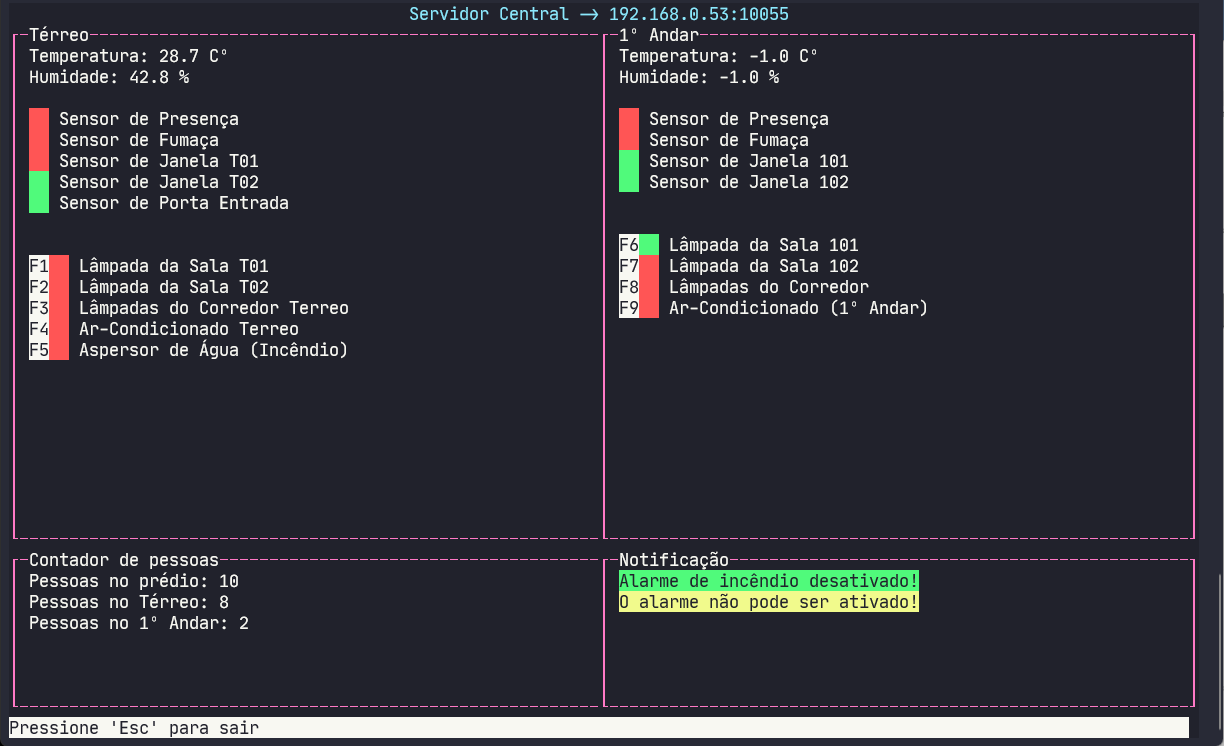
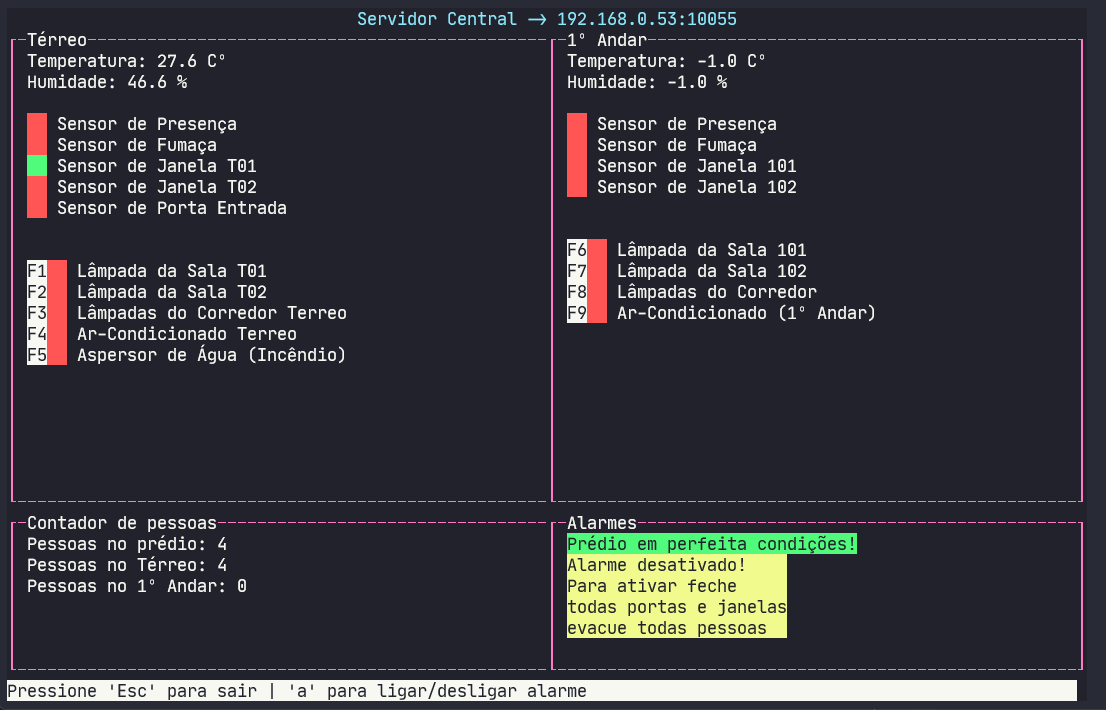
Implementado log

Changed region(s): [[0.0, 0.0, 1.0, 1.0], [0.0, 0.3408, 0.3074, 0.5268], [0.0, 0.7127, 0.2459, 0.8676]]

diff --git a/central/app.py b/central/app.py
@@ -2,6 +2,7 @@
 
 import sys,os,signal
 import time
+from datetime import datetime
 from threading import Thread
 
 import curses
@@ -19,12 +20,10 @@ firstKey = curses.KEY_F1
 keyboardPress = -1
 
 alarmeAtivado = False
-alarmeNotificacao = 'Alarme desativado!'
 alarmeAcionado = False
 
 alarmeIncendio = False
 andares = []
-
 
 inputsValidos = ['presenca', 'fumaca', 'janela', 'contagem', 'porta', 'dth22']
 outputsValidos = ['lampada', 'ar-condicionado', 'aspersor']
@@ -32,7 +31,7 @@ outputsValidos = ['lampada', 'ar-condicionado', 'aspersor']
 
 def pintarInterface(stdscr):
     global alarmeIncendio, andares, inputsValidos, outputsValidos, keyboardPress
-    global alarmeAtivado, alarmeAcionado, alarmeNotificacao
+    global alarmeAtivado, alarmeAcionado
 
     stdscr.clear()
     stdscr.refresh()
@@ -57,7 +56,7 @@ def pintarInterface(stdscr):
         title_x = int((width // 2) - (len(title) // 2) - len(title) % 2)
         stdscr.addstr(0, title_x, title, curses.color_pair(1))
 
-        footer = "Pressione 'Esc' para sair"
+        footer = "Pressione 'Esc' para sair | 'a' para ligar/desligar alarme"
         stdscr.attron(curses.color_pair(3))
         stdscr.addstr(height-1, 0, footer)
         stdscr.addstr(height-1, len(footer), " " * (width - len(footer) - 1))
@@ -102,26 +101,29 @@ def pintarInterface(stdscr):
         stdscr.addstr(1, margin_x+mid_x, titleCol2)
 
         stdscr.addstr(rectangle_h+1, margin_x, "Contador de pessoas")
-        stdscr.addstr(rectangle_h+1, margin_x+mid_x, "Notificação")
+        stdscr.addstr(rectangle_h+1, margin_x+mid_x, "Alarmes")
 
         if(alarmeIncendio):
             stdscr.addstr(rectangle_h+2, margin_x+mid_x, f"Alarme de incêndio ativado!", curses.color_pair(6))
         else:
-            stdscr.addstr(rectangle_h+2, margin_x+mid_x, f"Alarme de incêndio desativado!", curses.color_pair(5))
+            stdscr.addstr(rectangle_h+2, margin_x+mid_x, f"Prédio em perfeita condições!", curses.color_pair(5))
 
         if(alarmeAtivado):
             if(alarmeAcionado):
-                stdscr.addstr(rectangle_h+3, margin_x+mid_x, f"{alarmeNotificacao}", curses.color_pair(6))
+                stdscr.addstr(rectangle_h+3, margin_x+mid_x, f"Alarme acionado!", curses.color_pair(6))
             else:
-                stdscr.addstr(rectangle_h+3, margin_x+mid_x, f"{alarmeNotificacao}", curses.color_pair(5))
+                stdscr.addstr(rectangle_h+3, margin_x+mid_x, f"Alarme ativado!", curses.color_pair(5))
         else:
-            stdscr.addstr(rectangle_h+3, margin_x+mid_x, f"{alarmeNotificacao}", curses.color_pair(7))
+            stdscr.addstr(rectangle_h+3, margin_x+mid_x, f"Alarme desativado!    ", curses.color_pair(7))
+            stdscr.addstr(rectangle_h+4, margin_x+mid_x, f"Para ativar feche     ", curses.color_pair(7))
+            stdscr.addstr(rectangle_h+5, margin_x+mid_x, f"todas portas e janelas", curses.color_pair(7))
+            stdscr.addstr(rectangle_h+6, margin_x+mid_x, f"evacue todas pessoas  ", curses.color_pair(7))
 
         stdscr.refresh()
         keyboardPress = stdscr.getch()
 
         time.sleep(0.09)
-    
+
 
 def pintarIOInterface(stdscr, lineStart: int, margin_x: int, ios: list):
     for tmp_in in ios:
@@ -165,7 +167,7 @@ def lerSocket(con):
 
 
 def enviarSocket(con):
-    global keyboardPress, andares, alarmeIncendio, alarmeAtivado
+    global keyboardPress, andares, alarmeIncendio, alarmeAtivado, alarmeAcionado
 
     gpio = -1
     value = -1
@@ -173,13 +175,17 @@ def enviarSocket(con):
         if(alarmeIncendio):
             ativarAspersor(con)
 
+        time.sleep(0.09)
         if(keyboardPress == -1):
-            time.sleep(0.09)
             continue
         elif(keyboardPress == curses.ascii.ESC):
             break
         elif(keyboardPress == ord('a')):
-            ativarAlarme()
+            if(not alarmeAtivado):
+                ativarAlarme()
+            else:
+                alarmeAtivado = False
+                alarmeAcionado = False
 
         for tmp in andares:
             if(keyboardPress == -1): break
@@ -187,6 +193,11 @@ def enviarSocket(con):
                 if(tmp_io.getKey() == keyboardPress):
                     gpio = tmp_io.getGpio()
                     value = not tmp_io.getValue()
+                    if(value):
+                        log = 'Ativado'
+                    else:    
+                        log = 'Desativado'
+                    escreverLog(f"{log} {tmp_io.getTag()}")
                     tmp_io.setValue(value)
                     keyboardPress = -1
                     break  
@@ -212,9 +223,10 @@ def criarIO(json_object, andar):
                 if(json_object['type'] == 'contagem'):
                     andares[i].setContagem(msgIo)
                 elif(json_object['type'] == 'fumaca'):
-                    andares[i].setFumaca(msgIo)
-                    alarmeIncendio = json_object['value']
                     andares[i].addInput(msgIo)
+                    if(json_object['value'] and not alarmeIncendio):
+                        escreverLog("Acionado alarme de incêndio")
+                    alarmeIncendio = json_object['value']
                 else:
                     andares[i].addInput(msgIo)
 
@@ -245,6 +257,12 @@ def atualizarInput(json_object, andar):
                     for j, in_tmp in enumerate(andares[i].getInputs()):
                         if(in_tmp.getGpio() == json_object['gpio']):
                             andares[i].getInputs()[j].setValue(json_object['value'])
+                if(not alarmeIncendio):
+                    for tmp_andar in andares:
+                        for tmp_andar_in in tmp_andar.getInputs():
+                            if(tmp_andar_in.getType() == 'fumaca'):
+                                if(tmp_andar_in.getValue()):
+                                    alarmeIncendio = True
 
 
 
@@ -274,36 +292,38 @@ def ativarAspersor(con):
 
 
 def ativarAlarme():
-    global andares, alarmeAtivado, alarmeNotificacao, alarmeAcionado
+    global andares, alarmeAtivado, alarmeAcionado
     alarmeAtivado = not alarmeAtivado
     if(alarmeAtivado):
         for tmp in andares:
             for tmp_in in tmp.getInputs():
                 if(tmp_in.getValue()):
                     alarmeAtivado = False
-                    alarmeNotificacao = 'O alarme não pode ser ativado!'
                     break
-        if(alarmeAtivado):
-            alarmeNotificacao = 'Alarme ativado!'
-            alarmeThread = Thread(target=rotinaAlarme)
-            alarmeThread.start()
+    if(alarmeAtivado):
+        alarmeThread = Thread(target=rotinaAlarme)
+        alarmeThread.start()
     else:
-        time.sleep(1.1)
         alarmeAcionado = False
-        alarmeNotificacao = "O alarme foi desativado!"
 
 
 def rotinaAlarme():
-    global andares, alarmeAtivado, alarmeNotificacao, alarmeAcionado
-    while alarmeAtivado:
-        time.sleep(1)
+    global andares, alarmeAtivado, alarmeAcionado
+    while alarmeAtivado and not alarmeAcionado:
         for tmp in andares:
             for tmp_in in tmp.getInputs():
                 if(tmp_in.getValue()):
                     alarmeAcionado = True
-                    alarmeNotificacao = "Alarme acionado!"
+                    escreverLog("Acionado alarme")
                     break
+        if not alarmeAtivado: break
+        time.sleep(0.5)
 
+
+def escreverLog(text: str):
+    log = open('log.csv', 'a')
+    log.write(f"{datetime.now()}, {text}\n")
+    log.close()
 
 
 def sigint_handler(signal, frame):
@@ -320,7 +340,6 @@ if __name__ == "__main__":
         os._exit(os.EX_OK)
 
     socketThread = Thread(target=initSocket, args=(str(sys.argv[1]),int(sys.argv[2]),))
-    # socketThread.isDaemon=True
     socketThread.start()
 
     interfaceThread = Thread(target= curses.wrapper, args=(pintarInterface,))

diff --git a/central/andar.py b/central/andar.py
@@ -9,7 +9,6 @@ class Andar:
         self.temperatura = 0
         self.humidade = 0
         self.contagem = InOut(None, None, 0, 0)
-        self.fumaca = InOut(None, None, 0, 0)
 
     def addInput(self, input: InOut):
         self.inputs.append(input)
@@ -25,9 +24,6 @@ class Andar:
 
     def setContagem(self, contagem):
         self.contagem = contagem
-
-    def setFumaca(self, fumaca):
-        self.fumaca = fumaca
 
     def getNome(self):
         return self.nome
@@ -47,6 +43,4 @@ class Andar:
     def getContagem(self):
         return self.contagem
 
-    def getFumaca(self):
-        return self.fumaca
 

diff --git a/README.md b/README.md
@@ -36,12 +36,13 @@ Após um servidor distribuído se conectar, o usuário poderá:
 * ligar/desligar os dispositivos teclando a tecla correspondente a esquerda do dispositivo.
 * ligar/desligar o alarme de segurança teclando a tecla **'a'**.
 * Para sair pressione **'Esc'**.
+* Um linha de log e gerado no arquivo **[log.csv](/central/log.csv)** para cada ativar/desativar dos dispositivos pelo usuário, também gera uma linha para ocorrência de acionamento dos alarmes de incêndio e de segurança
 
 **Obs:**
 
 * Quadrado vermelho = desligado
 * Quadrado verde = ligado
-* Após sair os servidores distribuídos serão encerrados
+* Após sair, os servidores distribuídos serão encerrados
 
 # Servidor distribuído
 
